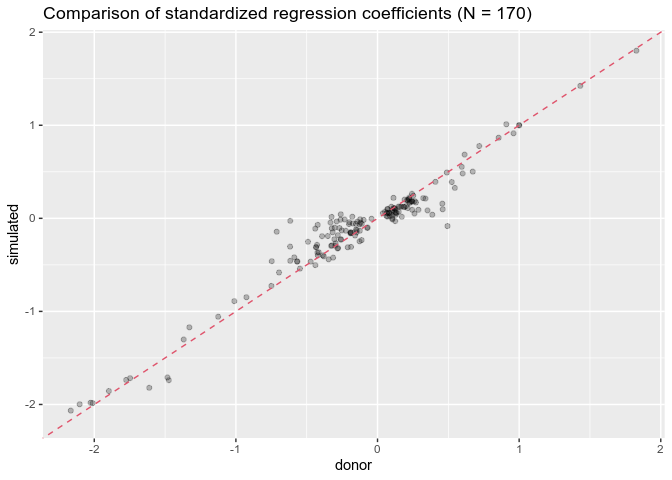
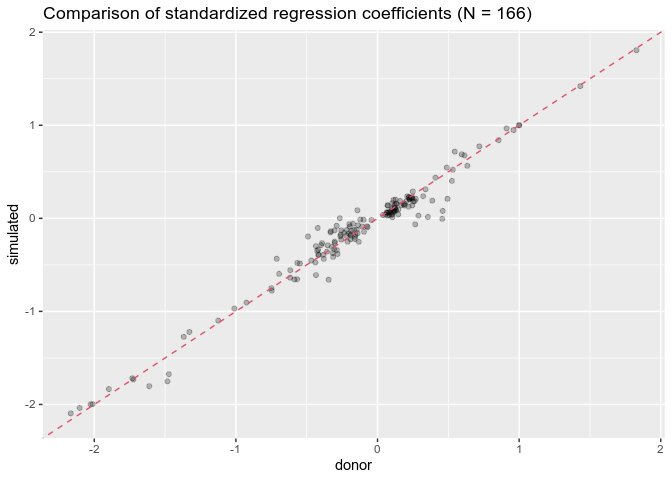
Updated README.

diff --git a/README.md b/README.md
@@ -114,7 +114,7 @@ donor <- recs
 dim(donor)
 ```
 
-    [1] 5686   28
+    [1] 5686  124
 
 ``` r
 # Recipient dataset
@@ -143,22 +143,18 @@ The `recipient` dataset contains 6 variables that are shared with
 between the two datasets. fusionModel exploits the information in these
 shared variables.
 
-There are 22 non-shared variables that are unique to `donor`. These are
-the variables that will be fused to `recipient`. This includes a mix of
-continuous, logical, ordered factor, and unordered factor variables.
-
 ``` r
 # The variables to be fused
-fusion.vars <- setdiff(names(donor), names(recipient))
+fusion.vars <- names(select(donor, -any_of(c(names(recipient), "weight")), -starts_with("rep_")))
 fusion.vars
 ```
 
      [1] "education"      "employment"     "hh_size"        "renter"        
      [5] "home_type"      "year_built"     "square_feet"    "insulation"    
-     [9] "heating"        "equipm"         "aircon"         "centralac_age" 
-    [13] "televisions"    "disconnect"     "electricity"    "natural_gas"   
-    [17] "fuel_oil"       "propane"        "propane_btu"    "propane_expend"
-    [21] "use_ng"         "have_ac"       
+     [9] "heating"        "aircon"         "centralac_age"  "televisions"   
+    [13] "disconnect"     "electricity"    "natural_gas"    "fuel_oil"      
+    [17] "propane"        "propane_btu"    "propane_expend" "use_ng"        
+    [21] "have_ac"       
 
 ``` r
 # The types of variables to be fused
@@ -167,7 +163,11 @@ table(sapply(donor[fusion.vars], vctrs::vec_ptype_abbr))
 
 
     dbl fct int lgl ord 
-      5   5   4   3   5 
+      5   4   4   3   5 
+
+There are 21 “fusion variables” unique to `donor`. These are the
+variables that will be fused to `recipient`. This includes a mix of
+continuous, logical, ordered factor, and unordered factor variables.
 
 We build our fusion model using the `train()` function. The minimal
 usage is shown below. See `?train` for additional function arguments and
@@ -175,10 +175,10 @@ options. Note that observation weights are ignored here for simplicity
 but can be incorporated via the optional `weights` argument.
 
 ``` r
-fit <- train(data = donor, y = fusion.vars)
+fit <- train(data = donor, y = fusion.vars, x = names(recipient))
 ```
 
-    22 fusion variables
+    21 fusion variables
     6 initial predictor variables
     5686 observations
     Searching for derivative relationships...
@@ -205,41 +205,34 @@ look at just a few of the simulated variables.
 head(sim[, 1:7])
 ```
 
-                                          aircon           employment
-    1            Central air conditioning system Not employed/retired
-    2            Central air conditioning system Not employed/retired
-    3 Both a central system and individual units Not employed/retired
-    4            Central air conditioning system Not employed/retired
-    5            Central air conditioning system   Employed full-time
-    6   Individual window/wall or portable units Not employed/retired
-                                 heating
-    1 Natural gas from underground pipes
-    2           Do not use space heating
-    3 Natural gas from underground pipes
-    4                        Electricity
-    5 Natural gas from underground pipes
-    6                  Fuel oil/kerosene
-                                                                                education
-    1                                             Bachelor's degree (for example: BA, BS)
-    2                                                          High school diploma or GED
-    3                                                          High school diploma or GED
-    4                                                  Some college or Associate's degree
-    5 Master's, Professional, or Doctorate degree (for example: MA, MS, MBA, MD, JD, PhD)
-    6                                                Less than high school diploma or GED
-      hh_size   year_built                                    home_type
-    1       3 2000 to 2009                 Single-family detached house
-    2       1 2000 to 2009                 Single-family detached house
-    3       1 2000 to 2009                 Single-family detached house
-    4       1 1970 to 1979                 Single-family attached house
-    5       3 1980 to 1989                 Single-family detached house
-    6       2  Before 1950 Apartment in a building with 5 or more units
+                employment                               education
+    1   Employed full-time Bachelor's degree (for example: BA, BS)
+    2   Employed full-time              High school diploma or GED
+    3   Employed part-time      Some college or Associate's degree
+    4   Employed part-time      Some college or Associate's degree
+    5   Employed full-time Bachelor's degree (for example: BA, BS)
+    6 Not employed/retired    Less than high school diploma or GED
+                                 heating hh_size         disconnect natural_gas
+    1           Do not use space heating       2              Never         156
+    2                        Electricity       2              Never           0
+    3                        Electricity       3              Never           0
+    4 Natural gas from underground pipes       2              Never         495
+    5 Natural gas from underground pipes       2        Some months         896
+    6                  Fuel oil/kerosene       1 Almost every month           0
+            insulation
+    1   Well insulated
+    2   Well insulated
+    3   Well insulated
+    4 Poorly insulated
+    5 Poorly insulated
+    6 Poorly insulated
 
 **If you run the same code yourself, your results for `sim` *will look
 different*.** This is because each call to `fuse()` produces a different
 random sampling from the underlying, conditional probability
 distributions (see section below on “Generating implicates”).
 
-## Validation
+## Sanity testing
 
 Successful fusion should result in simulated/synthetic variables that
 “look like” the donor in key respects. We can perform a series of
@@ -249,12 +242,12 @@ The continuous variables in `recs` – like many social survey variables –
 can be quite sparse (lots of zeros). Let’s first check that the
 proportion of zero values is similar in the donor and simulated data.
 
-              hh_size natural_gas square_feet electricity televisions
-    donor           0      0.4193           0           0      0.0239
-    simulated       0      0.4193           0           0      0.0241
-              propane_expend fuel_oil propane propane_btu
-    donor             0.8992   0.9483  0.8992      0.8992
-    simulated         0.8996   0.9543  0.8996      0.8996
+              hh_size natural_gas square_feet televisions electricity propane
+    donor           0      0.4193           0      0.0239           0  0.8992
+    simulated       0      0.4193           0      0.0206           0  0.9010
+              fuel_oil propane_expend propane_btu
+    donor       0.9483         0.8992      0.8992
+    simulated   0.9490         0.9010      0.9010
 
 Comparatively few households use propane or fuel oil, and almost
 everyone has a television.
@@ -270,12 +263,12 @@ represented in the fusion output.
 
 Now, let’s look at the means of the non-zero values.
 
-              hh_size natural_gas square_feet electricity televisions
-    donor      2.5774    576.6752    2081.443    11028.97      2.4195
-    simulated  2.6017    589.5476    2112.704    11073.57      2.3975
-              propane_expend fuel_oil  propane propane_btu
-    donor           672.0280 502.8666 346.7819    31672.67
-    simulated       657.8552 489.4481 337.5437    30829.06
+              hh_size natural_gas square_feet televisions electricity  propane
+    donor      2.5774    576.6752    2081.443      2.4195    11028.97 346.7819
+    simulated  2.5939    574.0109    2106.313      2.4347    11098.22 338.7003
+              fuel_oil propane_expend propane_btu
+    donor     502.8666       672.0280    31672.67
+    simulated 517.2817       654.2291    30934.71
 
 Notice that the ratio of mean “propane\_btu” to “propane” is the same
 for the donor and simulated datasets (ratio = 91.333). This is as
@@ -301,12 +294,12 @@ sim %>% select(natural_gas, use_ng) %>% distinct() %>% arrange(natural_gas) %>% 
 ```
 
       natural_gas use_ng
-    1    0.000000  FALSE
-    2    2.640000   TRUE
-    3    3.162125   TRUE
-    4    4.326402   TRUE
-    5    6.998909   TRUE
-    6    9.747504   TRUE
+    1       0.000  FALSE
+    2       2.640   TRUE
+    3       3.824   TRUE
+    4       5.450   TRUE
+    5       7.630   TRUE
+    6       7.830   TRUE
 
 Next, let’s look at kernel density plots of the non-zero values for the
 continuous variables where this kind of visualization makes sense.
@@ -320,7 +313,7 @@ For the remaining fused variables, we can compare the relative frequency
 is one such comparison for the “insulation” variable.
 
               Not insulated Poorly insulated Adequately insulated Well insulated
-    donor            0.0135           0.1583               0.4829         0.3452
+    donor            0.0125           0.1588               0.4880         0.3407
     simulated        0.0137           0.1597               0.4893         0.3373
 
 This kind of comparison can be extended to all of the fusion variables
@@ -393,42 +386,10 @@ across models, all variables are scaled to zero-mean and unit-variance
 
 ![](man/figures/README-unnamed-chunk-19-1.png)<!-- -->
 
-This exercise yields a total of 170 model terms (including intercepts)
+This exercise yields a total of 166 model terms (including intercepts)
 for which coefficients can be compared. The plot above shows that models
 fit to the simulated data do a good job replicating coefficients derived
-from the original data (correlation = 0.97).
-
-## Generating implicates
-
-Because values are randomly sampled from the conditional probability
-distributions, each call to `fuse()` produces a unique, synthetic
-dataset referred to as an “implicate” (in the sense of “simple
-synthesis”). It is common in data synthesis and imputation to produce
-multiple implicates that, collectively, quantify (some of) the
-uncertainty inherent in the underlying data.
-
-Since variables are synthesized serially, the creation of multiple
-implicates requires running `fuse()` multiple times. For example:
-
-``` r
-# Desired number of implicates
-n.imp <- 10
-
-# Generate 'n.imp' implicates
-sim <- lapply(1:n.imp, function(i) fuse(data = recipient, train.object = fit))
-```
-
-We can then look at the variation of a given outcome – e.g. the
-correlation between two variables – across the implicates. This provides
-an estimate of the variance associated with the outcome.
-
-``` r
-# Correlation between electricity consumption and number of televisions, across the implicates
-sapply(sim, function(x) cor(x[c("electricity", "televisions")])[1, 2])
-```
-
-     [1] 0.3093227 0.3212223 0.3176410 0.3089330 0.3022301 0.3267609 0.3126228
-     [8] 0.3064828 0.3473511 0.2977401
+from the original data (R-squared = 0.966).
 
 ## Data synthesis
 
@@ -438,9 +399,9 @@ manually sampled to “seed” the recipient dataset for fusion.
 
 ``` r
 # Create fusion model with a single predictor ("division" in this case)
-recipient <- subset(recs, select = division)
-fusion.vars <- setdiff(names(recs), names(recipient))
-fit <- train(data = recs, y = fusion.vars)
+recipient <- subset(donor, select = division)
+fusion.vars <- names(select(donor, -any_of(c(names(recipient), "weight")), -starts_with("rep_")))
+fit <- train(data = recs, y = fusion.vars, x = names(recipient))
 
 # Randomly sample "division" in the recipient and then run fuse()
 recipient$division <- sample(recipient$division, size = nrow(recipient))
@@ -460,19 +421,19 @@ using the `cores` argument. This is only enabled for UNIX-like systems
 timeMe <- function(...) system.time(capture.output(...))["elapsed"]
 
 # cores = 1
-train(data = donor, y = fusion.vars, cores = 1) %>% timeMe()
+train(data = donor, y = fusion.vars, x = names(recipient), cores = 1) %>% timeMe()
 ```
 
     elapsed 
-      6.452 
+      6.018 
 
 ``` r
 # cores = 3
-train(data = donor, y = fusion.vars, cores = 3) %>% timeMe()
+train(data = donor, y = fusion.vars, x = names(recipient), cores = 3) %>% timeMe()
 ```
 
     elapsed 
-      3.693 
+      3.654 
 
 Binary split decision trees are usually fast, but they can be
 *painfully* slow when there are unordered factor response (fusion)
@@ -491,23 +452,23 @@ donor$climate <- factor(sample(LETTERS[1:20], nrow(donor), replace = TRUE))
 
 # maxcats = NULL
 # Note that train() issues a warning about long compute time
-train(data = donor, y = fusion.vars, cores = 3, maxcats = NULL) %>% timeMe()
+train(data = donor, y = fusion.vars, x = names(recipient), cores = 3, maxcats = NULL) %>% timeMe()
 ```
 
-    Warning in train(data = donor, y = fusion.vars, cores = 3, maxcats = NULL): 
+    Warning in train(data = donor, y = fusion.vars, x = names(recipient), cores = 3, : 
     Be careful: Unordered factors are present that could cause long compute times.
     See 'maxcats' argument in ?train.
 
     elapsed 
-     10.504 
+     11.496 
 
 ``` r
 # maxcats = 10
-train(data = donor, y = fusion.vars, cores = 3, maxcats = 10) %>% timeMe()
+train(data = donor, y = fusion.vars, x = names(recipient), cores = 3, maxcats = 10) %>% timeMe()
 ```
 
     elapsed 
-      5.786 
+      7.999 
 
 The `lasso` argument directs `train()` to use LASSO regression via
 [glmnet](https://cran.r-project.org/web/packages/glmnet/index.html) to
@@ -527,22 +488,22 @@ donor[LETTERS] <- runif(26 * nrow(donor))
 dim(donor)
 ```
 
-    [1] 50000    54
+    [1] 50000   150
 
 ``` r
 # lasso = NULL
-train(data = donor, y = fusion.vars, cores = 3, lasso = NULL) %>% timeMe()
+train(data = donor, y = fusion.vars, x = names(recipient), cores = 3, lasso = NULL) %>% timeMe()
 ```
 
     elapsed 
-     36.935 
+      28.01 
 
 ``` r
 # lasso = 0.9
-train(data = donor, y = fusion.vars, cores = 3, lasso = 0.9) %>% timeMe()
+train(data = donor, y = fusion.vars, x = names(recipient), cores = 3, lasso = 0.9) %>% timeMe()
 ```
 
     elapsed 
-     29.091 
+     26.645 
 
 ### Happy fusing!
